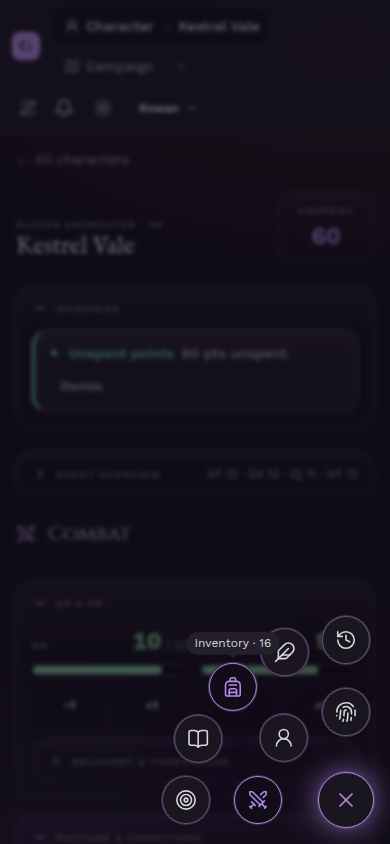
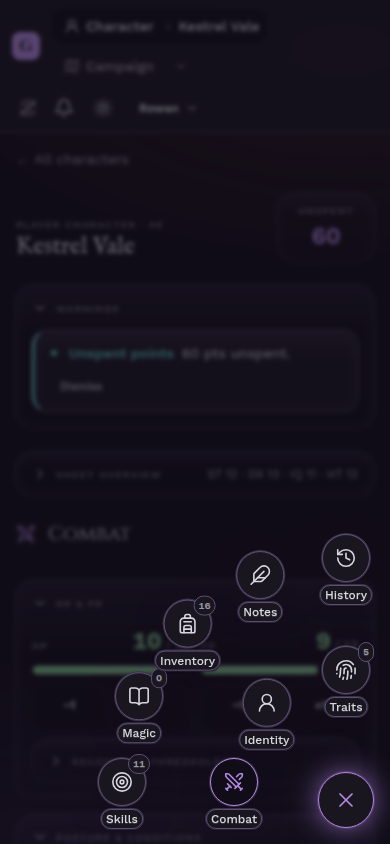
Show permanent labels in mobile character navigation

Changed region(s): [[0.2462, 0.6469, 0.9538, 0.9858], [0.8, 0.6469, 0.8308, 0.6777]]

diff --git a/tests/e2e/character-navigation.spec.ts b/tests/e2e/character-navigation.spec.ts
@@ -27,6 +27,7 @@ test('character navigation adapts across mobile and desktop widths', async ({ pa
 
   for (const width of widths) {
     const height = width < 768 ? 568 : 900;
+    const subpixelTolerance = 1;
     await page.setViewportSize({ width, height });
     await expectCharacterNavigationReady(page);
 
@@ -45,6 +46,10 @@ test('character navigation adapts across mobile and desktop widths', async ({ pa
         const button = dock.getByRole('button', { name: section, exact: true });
         await expect(button).toBeVisible();
         await expect(button).toHaveAttribute('aria-label', section);
+        await expect(button.locator('.dock-label')).toBeVisible();
+        if (['Traits', 'Skills', 'Magic', 'Inventory'].includes(section)) {
+          await expect(button.locator('.sheet-nav-count')).toBeVisible();
+        }
       }
 
       await selectCharacterSection(page, 'Combat');
@@ -70,8 +75,60 @@ test('character navigation adapts across mobile and desktop widths', async ({ pa
       const boxes = [] as { x: number; y: number; right: number; bottom: number }[];
       for (const section of CHARACTER_SECTIONS) {
         const button = flower.getByRole('button', { name: section, exact: true });
+        const petal = button.locator('..');
+        const label = petal.locator('.sheet-petal-label');
+        await expect(label).toBeVisible();
+        await expect(label).toContainText(section);
         await expect(button).toBeVisible();
         await expect(button).toHaveAttribute('aria-label', section);
+        if (['Traits', 'Skills', 'Magic', 'Inventory'].includes(section)) {
+          await expect(petal.locator('.sheet-petal-count')).toBeVisible();
+        }
+        await expect(flower.locator('[role="tooltip"]')).toHaveCount(0);
+        const labelBox = await label.boundingBox();
+        expect(labelBox, `${section} label has no layout box at ${width}px`).not.toBeNull();
+        if (labelBox) {
+          expect(labelBox.x).toBeGreaterThanOrEqual(0);
+          expect(labelBox.y).toBeGreaterThanOrEqual(0);
+          expect(labelBox.x + labelBox.width).toBeLessThanOrEqual(width);
+          expect(labelBox.y + labelBox.height).toBeLessThanOrEqual(height);
+        }
+        const groupBox = await petal.boundingBox();
+        expect(groupBox, `${section} group has no layout box at ${width}px`).not.toBeNull();
+        if (groupBox) {
+          expect(groupBox.x).toBeGreaterThanOrEqual(0);
+          expect(groupBox.y).toBeGreaterThanOrEqual(0);
+          expect(groupBox.x + groupBox.width).toBeLessThanOrEqual(width);
+          expect(groupBox.y + groupBox.height).toBeLessThanOrEqual(height);
+          boxes.push({
+            x: groupBox.x,
+            y: groupBox.y,
+            right: groupBox.x + groupBox.width,
+            bottom: groupBox.y + groupBox.height,
+          });
+          if (labelBox) {
+            expect(labelBox.x).toBeGreaterThanOrEqual(groupBox.x - subpixelTolerance);
+            expect(labelBox.y).toBeGreaterThanOrEqual(groupBox.y - subpixelTolerance);
+            expect(labelBox.x + labelBox.width).toBeLessThanOrEqual(
+              groupBox.x + groupBox.width + subpixelTolerance,
+            );
+            expect(labelBox.y + labelBox.height).toBeLessThanOrEqual(
+              groupBox.y + groupBox.height + subpixelTolerance,
+            );
+          }
+          const count = petal.locator('.sheet-petal-count');
+          if (await count.count()) {
+            await expect(count).toBeVisible();
+            const countBox = await count.boundingBox();
+            expect(countBox, `${section} count has no layout box at ${width}px`).not.toBeNull();
+            if (countBox) {
+              expect(countBox.x).toBeGreaterThanOrEqual(0);
+              expect(countBox.y).toBeGreaterThanOrEqual(0);
+              expect(countBox.x + countBox.width).toBeLessThanOrEqual(width);
+              expect(countBox.y + countBox.height).toBeLessThanOrEqual(height);
+            }
+          }
+        }
         const box = await button.boundingBox();
         expect(box, `${section} petal has no layout box at ${width}px`).not.toBeNull();
         if (!box) continue;
@@ -81,7 +138,6 @@ test('character navigation adapts across mobile and desktop widths', async ({ pa
         expect(box.y).toBeGreaterThanOrEqual(0);
         expect(box.x + box.width).toBeLessThanOrEqual(width);
         expect(box.y + box.height).toBeLessThanOrEqual(height);
-        boxes.push({ x: box.x, y: box.y, right: box.x + box.width, bottom: box.y + box.height });
       }
       const hub = await flower.locator('.sheet-nav-toggle').boundingBox();
       expect(hub, `navigation hub has no layout box at ${width}px`).not.toBeNull();
@@ -104,12 +160,16 @@ test('character navigation adapts across mobile and desktop widths', async ({ pa
 
       const combat = flower.getByRole('button', { name: 'Combat', exact: true });
       await combat.hover();
-      await expect(flower.getByRole('tooltip', { name: /^Combat/ })).toBeVisible();
+      await expect(flower.locator('[role="tooltip"]')).toHaveCount(0);
       const identity = flower.getByRole('button', { name: 'Identity', exact: true });
       await identity.focus();
-      await expect(flower.getByRole('tooltip', { name: /^Identity/ })).toBeVisible();
+      await expect(flower.locator('[role="tooltip"]')).toHaveCount(0);
 
-      await flower.getByRole('button', { name: 'Skills', exact: true }).click();
+      await flower
+        .getByRole('button', { name: 'Skills', exact: true })
+        .locator('..')
+        .locator('.sheet-petal-label')
+        .click();
       await expect(open).toBeVisible();
       await expect(flower.locator('.sheet-petals')).toBeHidden();
       await expect(

diff --git a/src/client/features/characters/SheetNavigation.test.tsx b/src/client/features/characters/SheetNavigation.test.tsx
@@ -48,11 +48,18 @@ describe('SheetNavigation', () => {
     expect(onSelect).toHaveBeenCalledWith('Skills');
   });
 
-  it('keeps mobile petals unreachable while closed and dismisses on escape/outside', async () => {
+  it('keeps mobile petals unreachable while closed and shows labelled non-tooltip petals when open', async () => {
     installMatchMedia(false);
     const user = userEvent.setup();
     const onSelect = vi.fn();
-    render(<SheetNavigation tabs={SHEET_TABS} active="Combat" counts={{}} onSelect={onSelect} />);
+    render(
+      <SheetNavigation
+        tabs={SHEET_TABS}
+        active="Combat"
+        counts={{ Skills: 3, Inventory: 2 }}
+        onSelect={onSelect}
+      />,
+    );
 
     const navigation = screen.getByRole('navigation', { name: 'Character sections' });
     const toggle = screen.getByRole('button', { name: 'Open character navigation' });
@@ -62,8 +69,29 @@ describe('SheetNavigation', () => {
 
     await user.click(toggle);
     expect(screen.getByRole('button', { name: 'Close character navigation' })).toBeVisible();
-    expect(navigation.querySelectorAll('.sheet-petals button')).toHaveLength(SHEET_TABS.length);
-    expect(screen.getByRole('tooltip', { name: 'Skills' })).toBeInTheDocument();
+    const petalGroups = navigation.querySelectorAll('.sheet-petal');
+    expect(petalGroups).toHaveLength(SHEET_TABS.length);
+    expect(navigation.querySelectorAll('[role="tooltip"]')).toHaveLength(0);
+    for (const tab of SHEET_TABS) {
+      const petal = Array.from(petalGroups).find(
+        (group) => group.querySelector(`button[aria-label="${tab}"]`) !== null,
+      );
+      expect(petal, `${tab} petal`).not.toBeNull();
+      if (!petal) continue;
+      const label = petal.querySelector('.sheet-petal-label');
+      expect(label, `${tab} visible label`).not.toBeNull();
+      expect(label).toBeVisible();
+      expect(label).toHaveTextContent(tab);
+      expect(petal.querySelector('button')).toHaveAttribute('aria-label', tab);
+      if (tab === 'Skills') {
+        expect(petal.querySelector('.sheet-petal-count')).toHaveTextContent('3');
+      }
+    }
+
+    await user.hover(screen.getByRole('button', { name: 'Skills' }));
+    await expect(navigation.querySelector('[role="tooltip"]')).not.toBeInTheDocument();
+    screen.getByRole('button', { name: 'Skills' }).focus();
+    expect(navigation.querySelector('[role="tooltip"]')).not.toBeInTheDocument();
 
     await user.keyboard('{Escape}');
     expect(screen.getByRole('button', { name: 'Open character navigation' })).toHaveFocus();
@@ -74,7 +102,11 @@ describe('SheetNavigation', () => {
     expect(petals).toHaveAttribute('hidden');
 
     await user.click(toggle);
-    await user.click(screen.getByRole('button', { name: 'Identity' }));
+    const identityLabel = Array.from(navigation.querySelectorAll('.sheet-petal'))
+      .find((group) => group.querySelector('button[aria-label="Identity"]') !== null)
+      ?.querySelector('.sheet-petal-label');
+    expect(identityLabel).not.toBeNull();
+    await user.click(identityLabel as HTMLElement);
     expect(onSelect).toHaveBeenCalledWith('Identity');
     expect(petals).toHaveAttribute('hidden');
   });

diff --git a/src/client/features/characters/SheetNavigation.tsx b/src/client/features/characters/SheetNavigation.tsx
@@ -139,22 +139,18 @@ export function SheetNavigation({ tabs, active, counts, onSelect }: SheetNavigat
         </button>
         <div id={id} className="sheet-petals" hidden={!open}>
           {tabs.map((tab, index) => {
-            // Three inner petals and up to five outer petals keep 48px targets apart.
+            // Leave room for permanent labels beneath each 48px icon target.
             const inner = index < 3;
             const angle = inner
               ? 180 - index * 45
               : 180 - ((index - 3) * 90) / Math.max(1, tabs.length - 4);
-            const radius = inner ? 88 : 160;
+            const radius = inner ? 112 : 224;
             const style = {
               '--petal-x': `${Math.cos((angle * Math.PI) / 180) * radius}px`,
               '--petal-y': `${-Math.sin((angle * Math.PI) / 180) * radius}px`,
             } as CSSProperties;
             return (
-              <div key={tab} className="tooltip tooltip-top sheet-petal" style={style}>
-                <span className="tooltip-content" role="tooltip">
-                  {tab}
-                  {counts[tab] !== undefined ? ` · ${counts[tab]}` : ''}
-                </span>
+              <div key={tab} className="sheet-petal" style={style}>
                 <button
                   type="button"
                   className="btn btn-circle"
@@ -163,6 +159,10 @@ export function SheetNavigation({ tabs, active, counts, onSelect }: SheetNavigat
                   onClick={() => select(tab)}
                 >
                   <AppIcon name={SHEET_ICONS[tab]} size={22} />
+                  {counts[tab] !== undefined && (
+                    <span className="sheet-petal-count">{counts[tab]}</span>
+                  )}
+                  <span className="sheet-petal-label">{tab}</span>
                 </button>
               </div>
             );

diff --git a/src/client/styles/components.css b/src/client/styles/components.css
@@ -513,7 +513,7 @@
 }
 
 /* Character navigation extends daisyUI's four-petal flower to eight destinations.
-   Two radii preserve 48px touch targets even at a 320px viewport. */
+   Two radii leave room for permanent labels even at a 320px viewport. */
 .sheet-with-navigation {
   padding-bottom: calc(7rem + env(safe-area-inset-bottom, 0px));
 }
@@ -605,15 +605,17 @@
 }
 .sheet-petal {
   position: absolute;
-  left: 4px;
-  top: 4px;
-  width: 3rem;
-  height: 3rem;
+  left: -4px;
+  top: -14px;
+  width: 4rem;
+  height: 4.5rem;
   transform: translate(var(--petal-x), var(--petal-y));
   pointer-events: auto;
   animation: sheet-petal-in 160ms ease-out;
 }
 .sheet-petal .btn {
+  position: relative;
+  margin-inline: 8px;
   width: 3rem;
   height: 3rem;
   background: var(--color-base-100);
@@ -628,13 +630,34 @@
   border-color: var(--color-primary);
   background: var(--color-base-200);
 }
-.sheet-petal .tooltip-content {
+.sheet-petal-label {
+  position: absolute;
+  top: calc(100% + 4px);
+  left: 50%;
+  transform: translateX(-50%);
+  padding: 1px 4px;
+  border: 1px solid var(--border-strong);
+  border-radius: var(--radius-field);
+  background: var(--color-base-100);
+  color: var(--color-base-content);
   white-space: nowrap;
   font-size: 0.75rem;
+  font-weight: 500;
+  line-height: 1rem;
+  box-shadow: var(--shadow-1);
 }
-.sheet-petal:hover,
-.sheet-petal:focus-within {
-  z-index: 2;
+.sheet-petal-count {
+  position: absolute;
+  top: -5px;
+  right: -5px;
+  padding: 1px 4px;
+  border: 1px solid var(--border-strong);
+  border-radius: 1rem;
+  background: var(--color-base-100);
+  color: var(--text-muted);
+  font-size: 0.625rem;
+  font-variant-numeric: tabular-nums;
+  line-height: 1rem;
 }
 @keyframes sheet-petal-in {
   from {

diff --git a/docs/screenshots/README.md b/docs/screenshots/README.md
@@ -27,11 +27,13 @@ Navigation previews captured on 2026-09-20 from `91a9b92` plus the themed-icon
 and responsive-navigation changes use that standard seed, in the isolated
 development stack at `http://localhost:13063`. These are real Chromium captures
 with device scale factor 1 and fictional local data.
+The mobile preview was refreshed the same day from `36ff3e1` plus the permanent
+label update, with all eight labels visible without hovering.
 
 | File | Surface | Theme | Image size |
 | --- | --- | --- | --- |
 | `navigation-desktop.png` | Character Combat section with the floating section dock and orbit sync indicator | Dark | 1440 × 1050 |
-| `navigation-mobile.png` | Expanded character navigation flower with the Inventory tooltip | Dark | 390 × 844 |
+| `navigation-mobile.png` | Expanded character navigation flower with permanent labels beneath every icon | Dark | 390 × 844 |
 
 When refreshing these images:
 

diff --git a/docs/specs/overview.md b/docs/specs/overview.md
@@ -101,7 +101,9 @@ shows the synced campaign name as a separate link to that campaign.
   768px and above replaces the sheet tab bar, with etched outline icons, labels,
   entry counts, and a violet active marker. Below 768px a bottom-right FAB shows
   the active section icon and opens a two-ring flower speed dial with 48px icon
-  buttons for all available destinations. Petals have hover/focus label tooltips;
+  buttons for all available destinations. Each petal has a permanent label below
+  its icon and a separate entry-count badge where applicable, with no tooltip.
+  The wider rings keep labels apart and inside a 320px viewport;
   selecting a section closes the flower and focuses/scrolls its visible heading.
   Escape, outside click, and leaving the navigation close it. Closed petals are
   hidden from keyboard and assistive technology. Safe-area spacing and bottom
